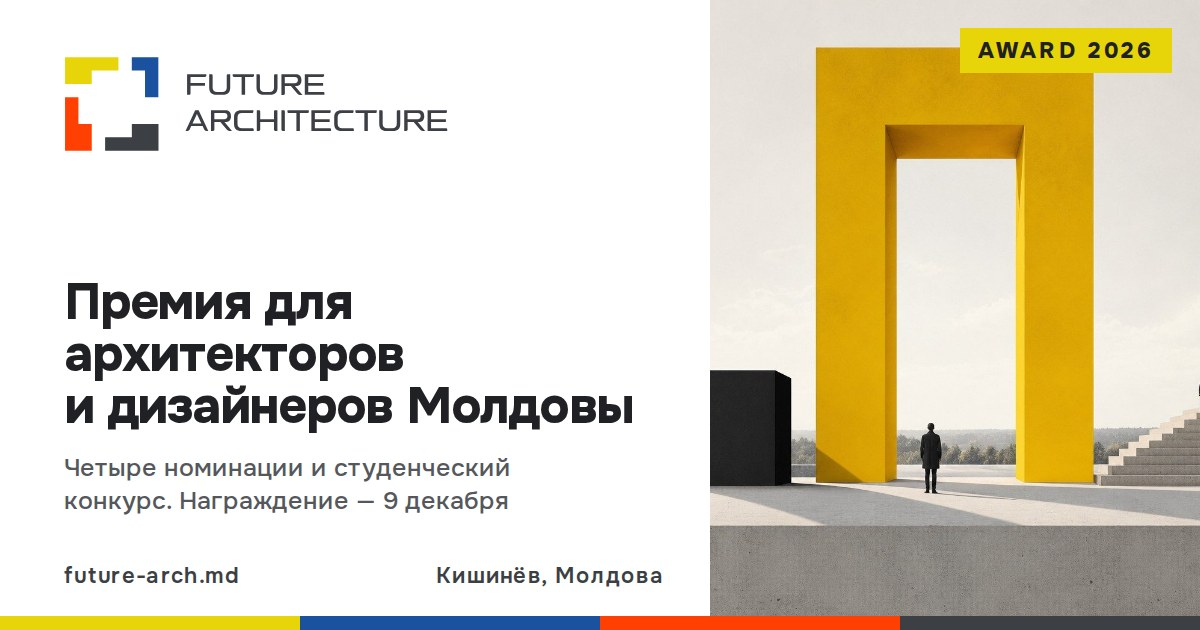
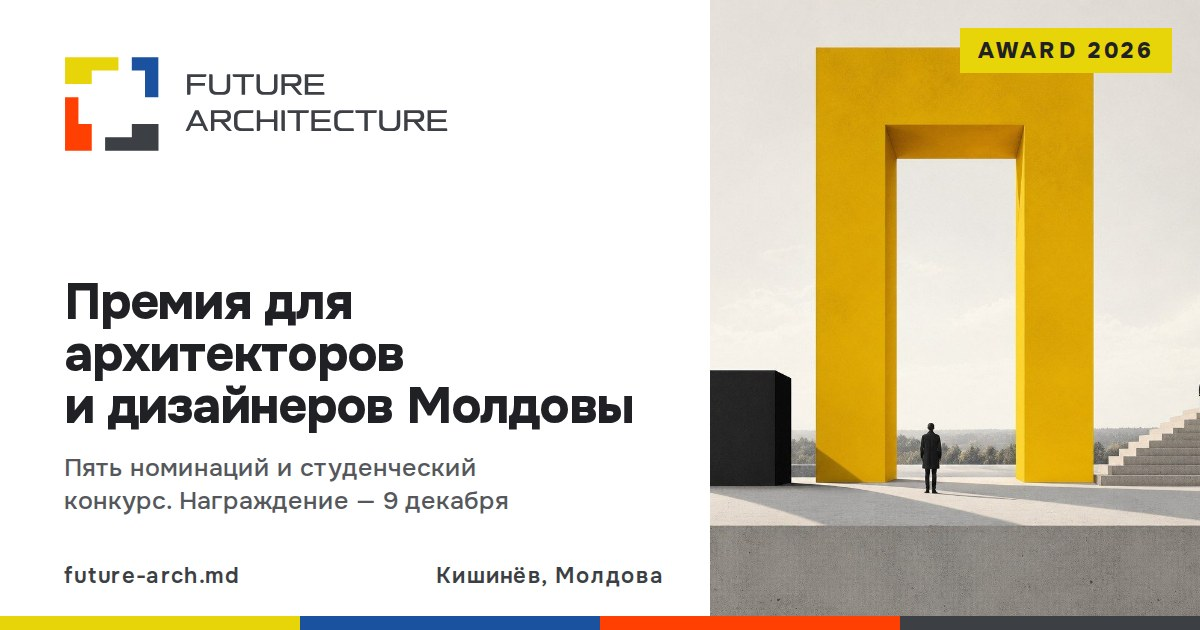
Премия: пятая номинация «Общественные пространства»
- номинация добавлена в список (миграция дописывает её в админку, если её там нет)
- тексты «четыре номинации» → «пять» на трёх языках, в SEO-описании и на картинках превью
- сетка номинаций на 5 карточек: компьютер — в ряд, планшет — пятая на всю ширину

Claude-Session: https://claude.ai/code/session_018s3wdfGMSmj53ysj7Sy4sm

Changed region(s): [[0.0308, 0.7238, 0.4317, 0.7841]]

diff --git a/src/migrations/20261012_140000_public_spaces_nomination.ts b/src/migrations/20261012_140000_public_spaces_nomination.ts
@@ -1,0 +1,63 @@
+import type { MigrateUpArgs, MigrateDownArgs } from '@payloadcms/db-postgres'
+
+/* Премия: пятая номинация «Общественные пространства».
+   1. Добавляется в конец списка номинаций (если её ещё нет).
+   2. Тексты «четыре номинации / 4 номинации» → «пять / 5» на трёх языках —
+      на странице премии и в SEO-описании. Остальные правки в админке не трогаем. */
+
+const NOM = {
+  kind: { ru: 'Архитектура', ro: 'Arhitectură', en: 'Architecture' },
+  title: { ru: 'Общественные пространства', ro: 'Spații publice', en: 'Public spaces' },
+}
+
+const SWAP: [string, string][] = [
+  ['в одной из четырёх номинаций', 'в одной из пяти номинаций'],
+  ['Для архитекторов и дизайнеров: 4 номинации', 'Для архитекторов и дизайнеров: 5 номинаций'],
+  ['Четыре номинации', 'Пять номинаций'],
+  ['в четырёх номинациях', 'в пяти номинациях'],
+  ['cele patru nominalizări', 'cele cinci nominalizări'],
+  ['designeri: 4 nominalizări', 'designeri: 5 nominalizări'],
+  ['Patru nominalizări', 'Cinci nominalizări'],
+  ['în patru nominalizări', 'în cinci nominalizări'],
+  ['one of four categories', 'one of five categories'],
+  ['designers: 4 categories', 'designers: 5 categories'],
+  ['Four categories', 'Five categories'],
+  ['in four categories', 'in five categories'],
+]
+const SKIP = new Set(['id', 'globalType', 'createdAt', 'updatedAt'])
+
+function swap(v: any): any {
+  if (typeof v === 'string') return SWAP.reduce((s, [a, b]) => s.split(a).join(b), v)
+  if (Array.isArray(v)) return v.map(swap)
+  if (v && typeof v === 'object') return Object.fromEntries(Object.entries(v).map(([k, x]) => [k, swap(x)]))
+  return v
+}
+
+export async function up({ payload, req }: MigrateUpArgs): Promise<void> {
+  for (const slug of ['award', 'settings']) {
+    let doc: any
+    try {
+      doc = await payload.findGlobal({ slug: slug as any, depth: 0, req })
+    } catch {
+      continue
+    }
+    if (!doc) continue
+    const data = swap(doc)
+    for (const k of SKIP) delete data[k]
+    let changed = JSON.stringify(data) !== JSON.stringify(Object.fromEntries(Object.entries(doc).filter(([k]) => !SKIP.has(k))))
+
+    if (slug === 'award') {
+      const list = Array.isArray(data.nominationList) ? data.nominationList : []
+      const has = list.some((n: any) => /обществен|public|publice/i.test(JSON.stringify(n?.title || '')))
+      if (list.length && !has) {
+        data.nominationList = [...list, NOM]
+        changed = true
+      }
+    }
+    if (!changed) continue
+    await payload.updateGlobal({ slug: slug as any, data, req, context: { skipRevalidate: true } })
+    payload.logger.info(`[award] ${slug}: пятая номинация и тексты обновлены`)
+  }
+}
+
+export async function down(_: MigrateDownArgs): Promise<void> {}

diff --git a/src/components/AwardPage.tsx b/src/components/AwardPage.tsx
@@ -39,18 +39,21 @@ const DEFAULT_NOMS: Record<Lang, [string, string][]> = {
     ['Архитектура', 'Архитектура жилого комплекса'],
     ['Интерьер', 'Интерьер жилого пространства'],
     ['Интерьер', 'Интерьер коммерческого пространства'],
+    ['Архитектура', 'Общественные пространства'],
   ],
   ro: [
     ['Arhitectură', 'Arhitectura casei private'],
     ['Arhitectură', 'Arhitectura complexului rezidențial'],
     ['Interior', 'Interiorul spațiului rezidențial'],
     ['Interior', 'Interiorul spațiului comercial'],
+    ['Arhitectură', 'Spații publice'],
   ],
   en: [
     ['Architecture', 'Private house architecture'],
     ['Architecture', 'Residential complex architecture'],
     ['Interior', 'Residential interior'],
     ['Interior', 'Commercial interior'],
+    ['Architecture', 'Public spaces'],
   ],
 }
 
@@ -249,7 +252,7 @@ export default function AwardPage({ t, lang, deadlineDate, forumDate, nomination
               </div>
               <p style={{ maxWidth: '42ch', fontSize: '16px', lineHeight: 1.6, color: '#55554F' }}>{t.aNomText}</p>
             </div>
-            <div className="am-g4" style={{ display: 'grid', marginTop: '32px', borderTop: '1px solid #000', borderLeft: '1px solid #E6E6E3' }}>
+            <div className={noms.length === 5 ? 'am-g5' : 'am-g4'} style={{ display: 'grid', marginTop: '32px', borderTop: '1px solid #000', borderLeft: '1px solid #E6E6E3' }}>
               {noms.map((n) => (
                 <a key={n.no} href="#apply" onClick={() => setNom(n.title)} className="hv-bgyellow" style={{ display: 'flex', flexDirection: 'column', minHeight: '200px', padding: '22px', borderRight: '1px solid #E6E6E3', borderBottom: '1px solid #E6E6E3', color: '#000', transition: 'background 240ms' }}>
                   <div style={{ display: 'flex', justifyContent: 'space-between', alignItems: 'flex-start' }}>

diff --git a/src/i18n/seo-defaults.ts b/src/i18n/seo-defaults.ts
@@ -46,17 +46,17 @@ export const SEO_COPY: Record<SeoPage, Record<Lang, { title: string; description
     ru: {
       title: 'Future Architecture Award 2026 — премия и студенческий конкурс',
       description:
-        'Премия для архитекторов и дизайнеров в четырёх номинациях и студенческий конкурс. Заявки до 20 ноября, победителей объявят 9 декабря на сцене Future Architecture Forum.',
+        'Премия для архитекторов и дизайнеров в пяти номинациях и студенческий конкурс. Заявки до 20 ноября, победителей объявят 9 декабря на сцене Future Architecture Forum.',
     },
     ro: {
       title: 'Future Architecture Award 2026 — premiu și concurs studențesc',
       description:
-        'Premiu pentru arhitecți și designeri în patru nominalizări și un concurs studențesc. Cereri până pe 20 noiembrie, câștigătorii vor fi anunțați pe 9 decembrie pe scena Future Architecture Forum.',
+        'Premiu pentru arhitecți și designeri în cinci nominalizări și un concurs studențesc. Cereri până pe 20 noiembrie, câștigătorii vor fi anunțați pe 9 decembrie pe scena Future Architecture Forum.',
     },
     en: {
       title: 'Future Architecture Award 2026 — award and student competition',
       description:
-        'An award for architects and designers in four categories, plus a student competition. Applications until 20 November, winners announced on 9 December on stage at Future Architecture Forum.',
+        'An award for architects and designers in five categories, plus a student competition. Applications until 20 November, winners announced on 9 December on stage at Future Architecture Forum.',
     },
   },
 }

diff --git a/src/i18n/ru.ts b/src/i18n/ru.ts
@@ -199,19 +199,19 @@ export const ru = {
   aCta: 'Подать проект',
   aEyebrow: 'Архитектура и дизайн',
   aOpen: 'Приём заявок открыт',
-  aLead: 'Представьте свой проект в одной из четырёх номинаций. Принимаем реализованные проекты и концепции.',
+  aLead: 'Представьте свой проект в одной из пяти номинаций. Принимаем реализованные проекты и концепции.',
   aDeadlineLabel: 'Заявки до',
   aDaysLeft: 'Осталось {days} дн.',
   aWinners: 'Победители',
   aWinnersText: 'Победителей объявят на сцене Future Architecture Forum',
   aChoose: 'Выберите, где участвовать',
   aAward: 'Премия',
-  aAwardNote: 'Для архитекторов и дизайнеров: 4 номинации',
+  aAwardNote: 'Для архитекторов и дизайнеров: 5 номинаций',
   aStudent: 'Студенческий конкурс',
   aStudentNote: 'Для студентов: проект общественного пространства',
   aHeroAlt: 'Иллюстрация: жёлтый портал на подиуме',
   aNomLabel: '01 / Номинации',
-  aNomTitle: 'Четыре номинации',
+  aNomTitle: 'Пять номинаций',
   aNomText: 'Выберите номинацию — форма заявки откроется с ней.',
   aPrizeLabel: '02 / Награда',
   aPrizeTitle: 'Что получает победитель',

diff --git a/src/i18n/ro.ts b/src/i18n/ro.ts
@@ -181,19 +181,19 @@ export const ro: Dict = {
   aCta: "Înscrie un proiect",
   aEyebrow: "Arhitectură și design",
   aOpen: "Înscrierile sunt deschise",
-  aLead: "Prezentați-vă proiectul într-una dintre cele patru nominalizări. Acceptăm proiecte realizate și concepte.",
+  aLead: "Prezentați-vă proiectul într-una dintre cele cinci nominalizări. Acceptăm proiecte realizate și concepte.",
   aDeadlineLabel: "Înscrieri până pe",
   aDaysLeft: "Au rămas {days} zile",
   aWinners: "Câștigătorii",
   aWinnersText: "Câștigătorii vor fi anunțați pe scena Future Architecture Forum",
   aChoose: "Alegeți unde participați",
   aAward: "Premiul",
-  aAwardNote: "Pentru arhitecți și designeri: 4 nominalizări",
+  aAwardNote: "Pentru arhitecți și designeri: 5 nominalizări",
   aStudent: "Concursul studențesc",
   aStudentNote: "Pentru studenți: proiectul unui spațiu public",
   aHeroAlt: "Ilustrație: portal galben pe un podium",
   aNomLabel: "01 / Nominalizări",
-  aNomTitle: "Patru nominalizări",
+  aNomTitle: "Cinci nominalizări",
   aNomText: "Alegeți o nominalizare — formularul se va deschide cu ea selectată.",
   aPrizeLabel: "02 / Premiul",
   aPrizeTitle: "Ce primește câștigătorul",

diff --git a/src/i18n/en.ts b/src/i18n/en.ts
@@ -181,19 +181,19 @@ export const en: Dict = {
   aCta: "Submit a project",
   aEyebrow: "Architecture and design",
   aOpen: "Applications are open",
-  aLead: "Enter your project in one of four categories. We accept both completed projects and concepts.",
+  aLead: "Enter your project in one of five categories. We accept both completed projects and concepts.",
   aDeadlineLabel: "Applications until",
   aDaysLeft: "{days} days left",
   aWinners: "Winners",
   aWinnersText: "Winners will be announced on stage at Future Architecture Forum",
   aChoose: "Choose where to take part",
   aAward: "Award",
-  aAwardNote: "For architects and designers: 4 categories",
+  aAwardNote: "For architects and designers: 5 categories",
   aStudent: "Student competition",
   aStudentNote: "For students: a public space project",
   aHeroAlt: "Illustration: a yellow portal on a podium",
   aNomLabel: "01 / Categories",
-  aNomTitle: "Four categories",
+  aNomTitle: "Five categories",
   aNomText: "Pick a category — the application form will open with it selected.",
   aPrizeLabel: "02 / The prize",
   aPrizeTitle: "What the winner gets",

diff --git a/src/migrations/index.ts b/src/migrations/index.ts
@@ -10,6 +10,7 @@ import * as migration_20260928_080628_arch_makers_admin_cleanup from './20260928
 import * as migration_20260928_080700_arch_makers_admin_data from './20260928_080700_arch_makers_admin_data';
 import * as migration_20261012_090000_future_architecture_brand from './20261012_090000_future_architecture_brand';
 import * as migration_20261012_120000_applications_mail from './20261012_120000_applications_mail';
+import * as migration_20261012_140000_public_spaces_nomination from './20261012_140000_public_spaces_nomination';
 
 export const migrations = [
   {
@@ -71,5 +72,10 @@ export const migrations = [
     up: migration_20261012_120000_applications_mail.up,
     down: migration_20261012_120000_applications_mail.down,
     name: '20261012_120000_applications_mail',
+  },
+  {
+    up: migration_20261012_140000_public_spaces_nomination.up,
+    down: migration_20261012_140000_public_spaces_nomination.down,
+    name: '20261012_140000_public_spaces_nomination',
   },
 ];

diff --git a/src/app/(frontend)/globals.css b/src/app/(frontend)/globals.css
@@ -187,6 +187,7 @@ button:focus-visible,
 .am-g2,
 .am-g3,
 .am-g4,
+.am-g5,
 .am-f2 {
   grid-template-columns: minmax(0, 1fr);
 }
@@ -230,8 +231,13 @@ button:focus-visible,
     grid-template-columns: repeat(2, minmax(0, 1fr));
   }
   .am-g3,
-  .am-g4 {
+  .am-g4,
+  .am-g5 {
     grid-template-columns: repeat(2, minmax(0, 1fr));
+  }
+  /* пятая карточка на планшете — на всю ширину, без «дырки» справа */
+  .am-g5 > :last-child:nth-child(odd) {
+    grid-column: 1 / -1;
   }
   .am-g4p {
     grid-template-columns: repeat(4, minmax(0, 1fr));
@@ -277,6 +283,12 @@ button:focus-visible,
   }
   .am-g4 {
     grid-template-columns: repeat(4, minmax(0, 1fr));
+  }
+  .am-g5 {
+    grid-template-columns: repeat(5, minmax(0, 1fr));
+  }
+  .am-g5 > :last-child:nth-child(odd) {
+    grid-column: auto;
   }
   .am-g6 {
     grid-template-columns: repeat(6, minmax(0, 1fr));
